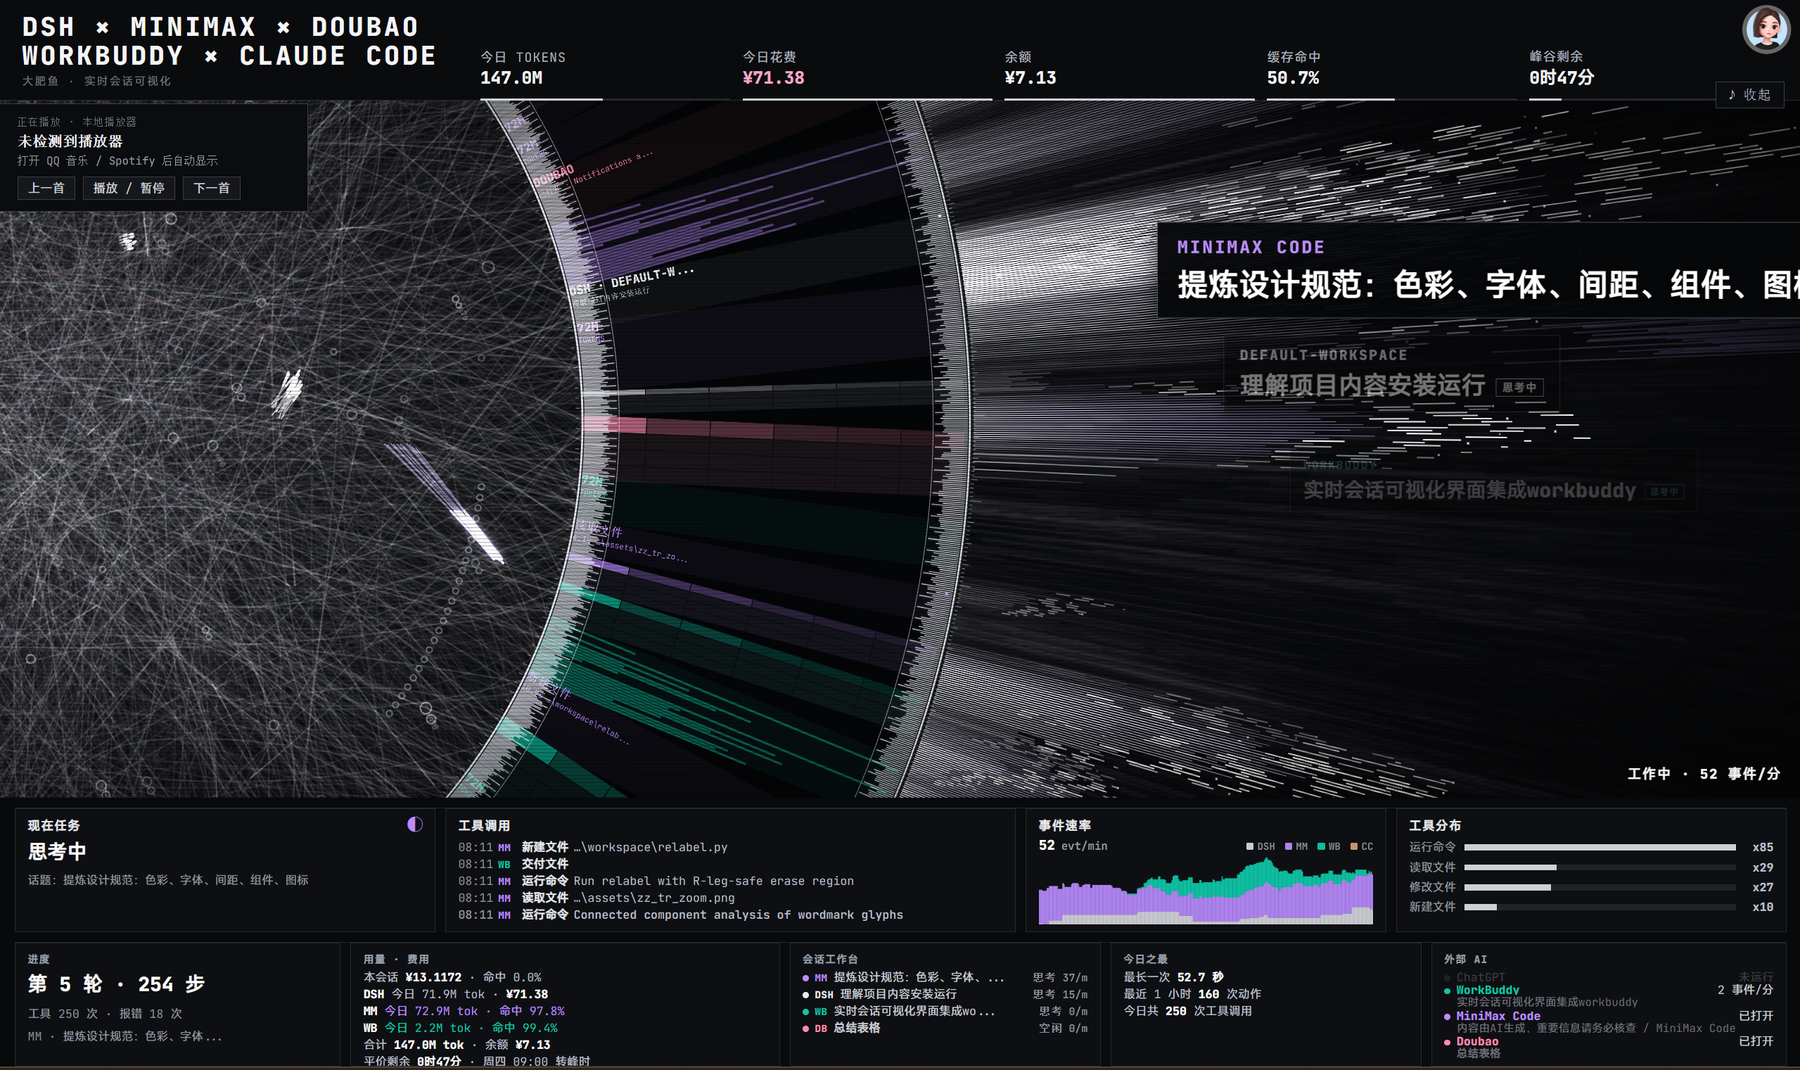
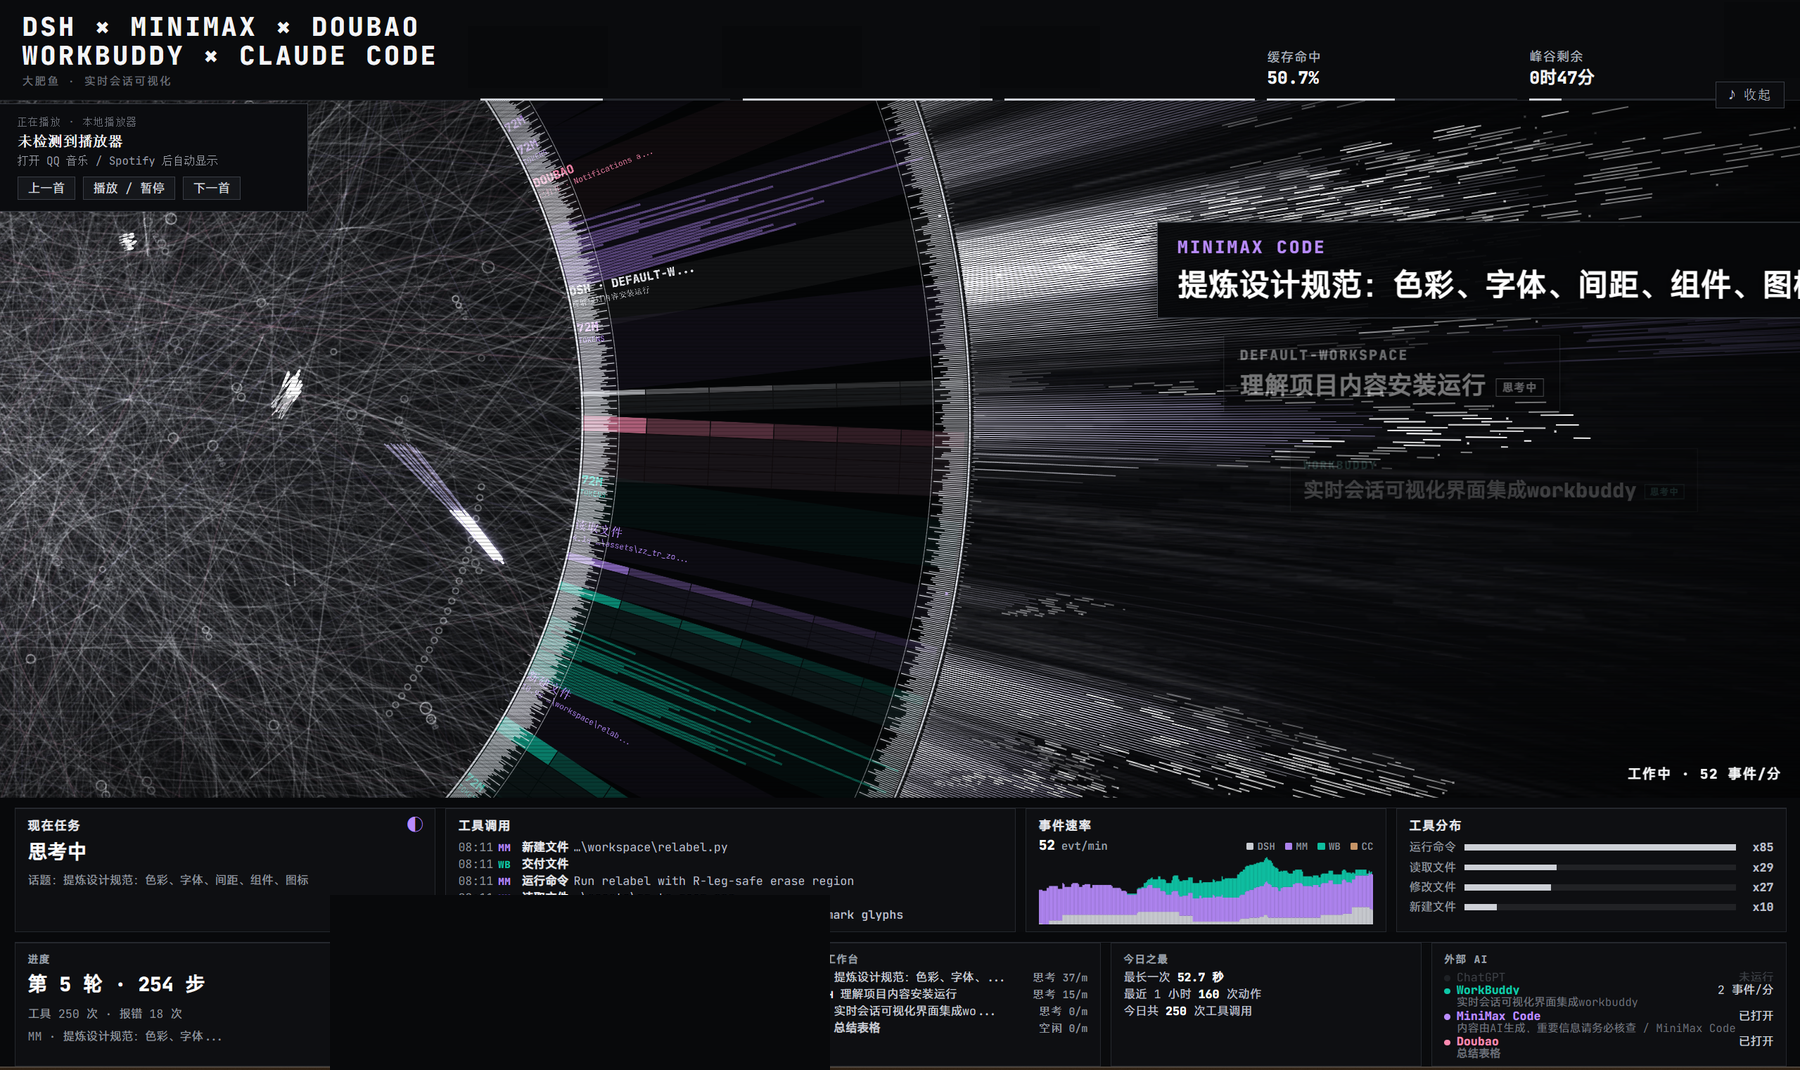
fix: drop the hard-coded absolute path that leaked a personal username
defaultProjectCandidates() shipped one machine-specific path containing the author's Windows user name. It now relies on the projectDir option / HALOFLUX_PROJECT_DIR plus machine-independent fallbacks.

diff --git a/src/supervisor.js b/src/supervisor.js
@@ -42,7 +42,10 @@ function defaultProjectCandidates() {
   return [
     path.join(home, '.dsh', 'haloflux'),
     path.join(home, 'Documents', 'deepseek-harness', 'default-workspace', 'dsh-hud-haloflux'),
-    'D:\\56587\\Documents\\deepseek-harness\\default-workspace\\dsh-hud-haloflux',
+    // The old build hard-coded one absolute Windows path containing the author's
+    // username, which leaked a personal path into a public repository. Set the
+    // `projectDir` plugin option (or HALOFLUX_PROJECT_DIR) when the checkout lives
+    // somewhere else; these fallbacks stay machine-independent.
   ]
 }
 
